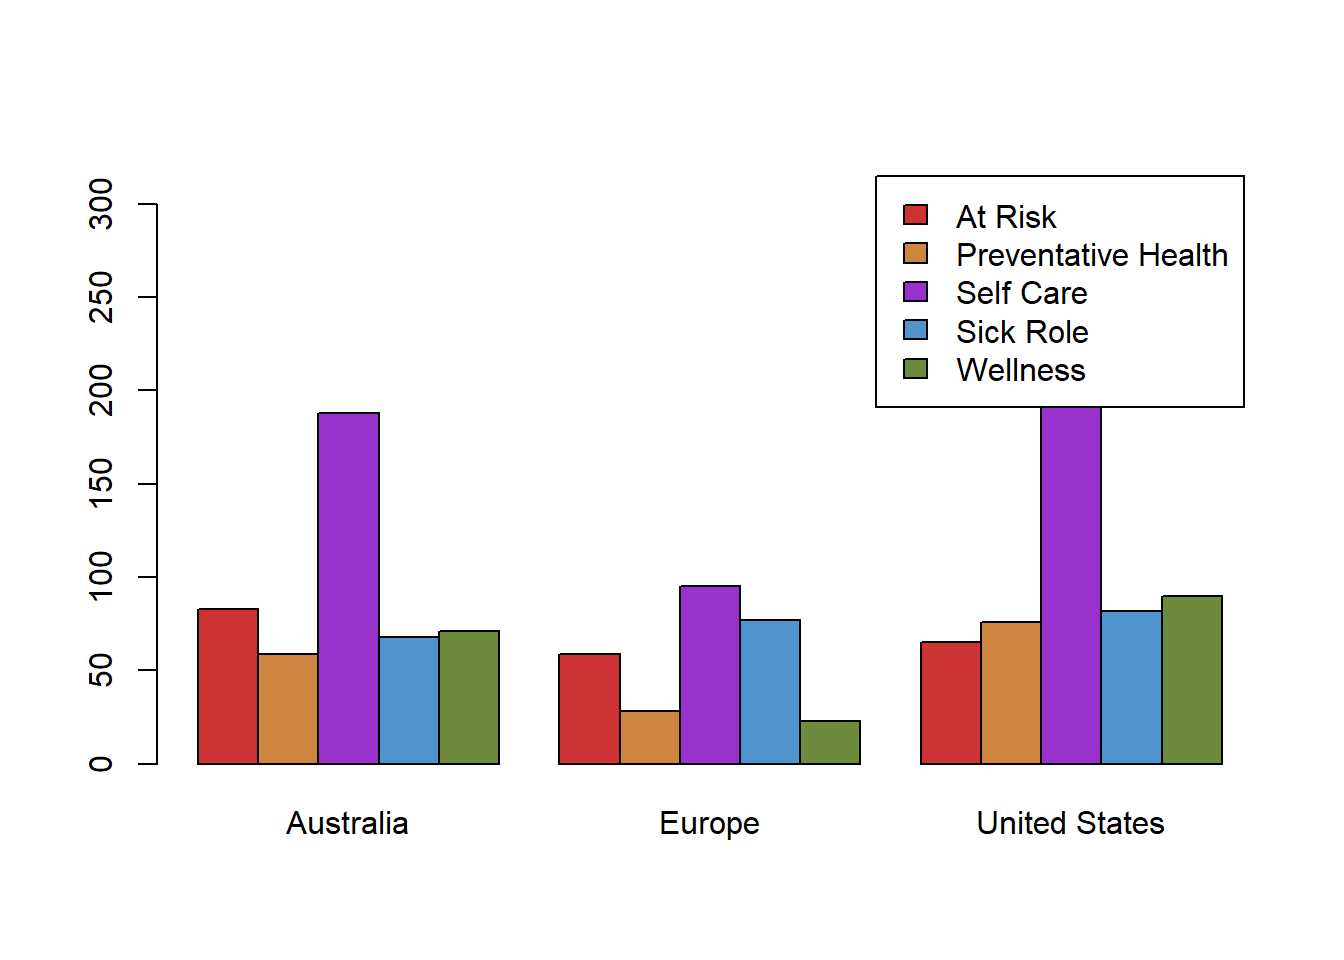
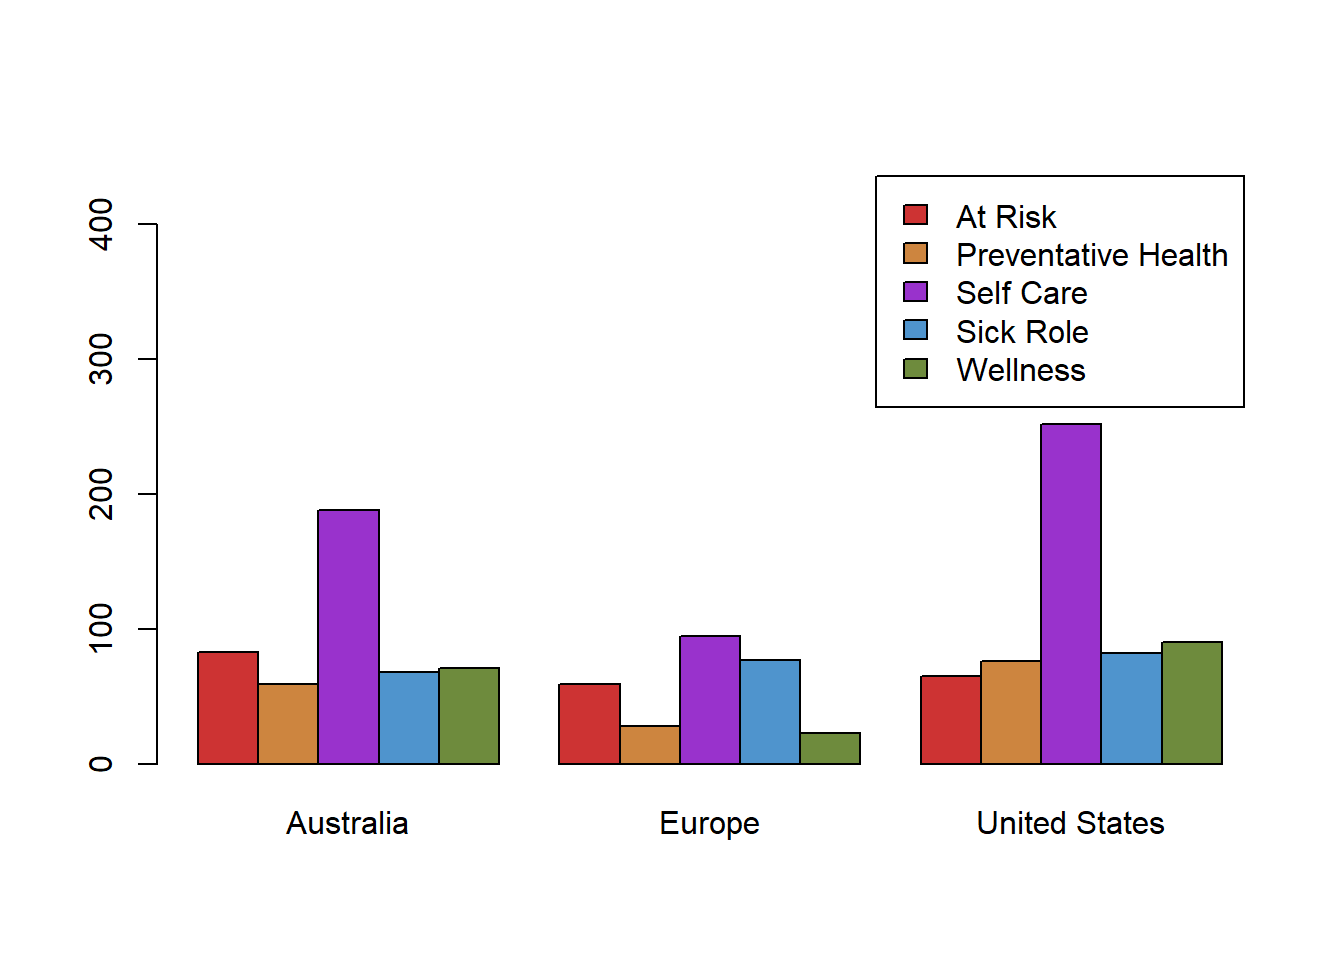
Revised chiropractic_care_raw data

diff --git a/docs/Lesson19.html b/docs/Lesson19.html
@@ -468,6 +468,7 @@ Note that the number of degrees of freedom does not depend on the number of subj
 
 -->
 <p><br></p>
+<p><img src = "Images/StepsAll.png"></p>
 <div id="case-study-chiropractic-care" class="section level3">
 <h3>Case Study: Chiropractic Care</h3>
 <div style="float:right;padding:10px;">
@@ -494,26 +495,15 @@ H_a\colon &amp; \text{The location and the motivation for seeking treatment are 
 H_0\colon &amp; \text{The row variable and the column variable are independent} \\
 H_a\colon &amp; \text{The row variable and the column variable are not independent} \\
 \end{array}
-\]</span> But when there’s a context, please make sure you write your hypotheses in terms of the context.</p>
+\]</span> When writing these in the context of a given situation, replace “row variable” and “column variable” by a more descriptive reference.</p>
+<p>We will use the level of significance <span class="math inline">\(\alpha = 0.05\)</span>.</p>
+<p><br></p>
 <p><img src = "Images/Step2.png"></p>
 <p>The researchers reported on their data collection procedures with the following statement. “Using an international convenience sample of Sacro-Occipital Technique (SOT) practitioners, 1316 consecutive patients attending 27 different chiropractic clinics in the USA, Europe and Australia completed a one-page survey on intake to assess reason for seeking care. A forced choice response was obtained characterizing the patient’s reason for seeking chiropractic care.”</p>
 <p><br/></p>
 <p><img src = "Images/Step3.png"></p>
-<p>The data from the study are given in the file <a href="./data/chiropractic_care_raw.xlsx">chiropractic_care_raw.xlsx</a>. Each row represents the responses of one person. There were a total of 1316 participants in this study.</p>
-<p>Here is a brief excerpt of the data:</p>
-<pre><code>## -- Attaching packages --------------------------------------- tidyverse 1.3.1 --</code></pre>
-<pre><code>## v ggplot2 3.3.5     v purrr   0.3.4
-## v tibble  3.1.6     v dplyr   1.0.7
-## v tidyr   1.1.4     v stringr 1.4.0
-## v readr   2.1.1     v forcats 0.5.1</code></pre>
-<pre><code>## -- Conflicts ------------------------------------------ tidyverse_conflicts() --
-## x dplyr::filter() masks stats::filter()
-## x dplyr::lag()    masks stats::lag()</code></pre>
-<pre><code>## 
-## Attaching package: &#39;kableExtra&#39;</code></pre>
-<pre><code>## The following object is masked from &#39;package:dplyr&#39;:
-## 
-##     group_rows</code></pre>
+<p>The data from the study are given in the file <a href="./data/chiropractic_care_raw.xlsx">chiropractic_care_raw.xlsx</a>. (Review of <a href="RHelp.html#reading-in-the-data">reading in data</a>.) Each row represents the responses of one person.</p>
+Here is a brief excerpt of the data:
 <table class="table" style="width: auto !important; margin-left: auto; margin-right: auto;">
 <thead>
 <tr>
@@ -667,17 +657,15 @@ R Instructions
 <p>First, read in the data from the file <a href="./data/chiropractic_care_raw.xlsx">chiropractic_care_raw.xlsx</a>. (Review of <a href="RHelp.html#reading-in-the-data">reading in data</a>.)</p>
 <p>You can use the <code>head()</code> function to look at the first few rows of the data.</p>
 <pre class="r"><code>head(chiropractic_care_raw)</code></pre>
-<pre><code># A tibble: 6 x 2
-  location  motivation         
-  &lt;chr&gt;     &lt;chr&gt;              
-1 Australia Self Care          
-2 Australia At Risk            
+<pre><code>   location          motivation
+1 Australia           Self Care
+2 Australia             At Risk
 3 Australia Preventative Health
-4 Australia Self Care          
-5 Australia Sick Role          
-6 Australia Self Care          </code></pre>
+4 Australia           Self Care
+5 Australia           Sick Role
+6 Australia           Self Care</code></pre>
 <p>It is hard to visualize these data. We summarize them into a table of counts, which can be called a <em>contingency table</em>. <!--<cite>Blum08</cite>--></p>
-<p>After reading in the data, we can organize it into a contingency table.</p>
+<p>After reading in the data, we can organize it into a contingency table. The values in a contingency table represent the counts of the reasons individuals from each location sought chiropractic care.</p>
 <pre class="r"><code>contingency_table &lt;- table(chiropractic_care_raw)
 contingency_table</code></pre>
 <pre><code>##                motivation
@@ -747,19 +735,19 @@ contingency_table</code></pre>
 <p><img src="Lesson19_files/figure-html/unnamed-chunk-9-1.png" width="672" /></p>
 <p>Either plot can be used. They present identical information in different ways. You will probably prefer one of these plots over the other, so use the one you feel best describes the data.</p>
 <p>In this case, it makes sense to group the reasons people seek chiropractic care together for each country. The second boxplot seems to be more effective as presenting the information in this case.</p>
-<p>Notice that the legend covers the top of the bars in this plot. If we increase the length of the y-axis to 325 (instead of the default value), the legend no longer covers the bars. This is accomplished with the argument <code>ylim = c(0, 325)</code>, which sets the limits of the y-axis to go from 0 to 325. We can also color the plot by providing enough colors for each of the legend entries. We will use the first plot, which has five legend entries. So, we use the command: <code>col = c("brown3", "tan3", "darkorchid", "steelblue3", "darkolivegreen4")</code>.</p>
+<p>Notice that the legend covers part of the bars in this plot. If we increase the length of the y-axis to 450 (instead of the default value), the legend no longer covers the bars. This is accomplished with the argument <code>ylim = c(0, 450)</code>, which sets the limits of the y-axis to go from 0 to 450. We can also color the plot by providing enough colors for each of the legend entries. We will use the first plot, which has five legend entries. So, we use the command: <code>col = c("brown3", "tan3", "darkorchid", "steelblue3", "darkolivegreen4")</code>.</p>
 <pre class="r"><code>barplot(t(contingency_table), beside = TRUE, legend = TRUE,
-        ylim = c(0, 325),  # extend the y-axis from 0 to 325
+        ylim = c(0, 450),  # extend the y-axis from 0 to 450
         col = c(&quot;brown3&quot;, &quot;tan3&quot;, &quot;darkorchid&quot;, &quot;steelblue3&quot;, &quot;darkolivegreen4&quot;))</code></pre>
 <p><img src="Lesson19_files/figure-html/unnamed-chunk-10-1.png" width="672" /></p>
 <p><br/></p>
 </div>
 <p><br> <br></p>
-<p>The predominant motivation that people choose to seek chiropractic care in any region is for <em>Self Care</em>. The second-most common reason differs across the three regions. For Australia, it is <em>Wellness</em>. For Europe, it is <em>At Risk</em>, and for the United States, it is <em>Sick Role</em>.</p>
+<p>The predominant motivation that people choose to seek chiropractic care in any region is for <em>Self Care</em>. The second-most common reason differs across the three regions. For Australia, it is <em>At Risk</em>. For Europe, it is <em>Sick Role</em>, and for the United States, it is <em>Wellness</em>.</p>
 <p><br/></p>
 <p><img src = "Images/Step4.png"></p>
 <p>Our objective is to determine if the reasons people seek chiropractic care is proportionally the same for each of the three locations. In other words, we want to know if people’s motivation for seeking chiropractic care is independent of their location.</p>
-<p>Before drawing a conclusion, it is important to conduct the chi-squared test of independence. The <span class="math inline">\(P\)</span>-value from this test will help us know if there are statistically significant differences in the ratios across the groups. If we fail to reject the null hypothesis, then <em>motivation</em> and <em>location</em> are independent (i.e., not related). So any patterns we are seeing in the bar plot can be attributed to random chance. However, if we reject the null hypothesis then we can claim that <em>motivation</em> and <em>location</em> are <strong>not independent</strong> (meaning the proportions of the reasons people seek care is different in the three locations). We can then draw our final conclusions regarding the patterns observed in the side-by-side bar plots.</p>
+<p>The barcharts for the three regions do not look the same. This suggests that the motivation to seek chiropractic care is not independent of the region. However, before drawing a conclusion it is important to conduct the chi-squared test of independence. The <span class="math inline">\(P\)</span>-value from this test will help us know if there are statistically significant differences in the ratios across the groups. If we fail to reject the null hypothesis, then <em>motivation</em> and <em>location</em> are independent (i.e., not related). So any patterns we are seeing in the bar plot can be attributed to random chance. However, if we reject the null hypothesis then we can claim that <em>motivation</em> and <em>location</em> are <strong>not independent</strong> (meaning the proportions of the reasons people seek care is different in the three locations). We can then draw our final conclusions regarding the patterns observed in the side-by-side bar plots.</p>
 </div>
 <div id="r-instructions-for-performing-a-chi-squared-test-of-independence" class="section level3">
 <h3>R Instructions for Performing a Chi-squared Test of Independence</h3>
@@ -775,14 +763,15 @@ chisq_results</code></pre>
 
 data:  contingency_table
 X-squared = 49.743, df = 8, p-value = 4.58e-08</code></pre>
-<p>The “X-squared” value of 49.743 is the test statistic of the test. Technically, it should be typeset as <span class="math inline">\(\chi^2 = 49.743\)</span>. The text “X-squared” is used to represent the symbol (<span class="math inline">\(\chi^2\)</span>), which is the Greek letter chi (<span class="math inline">\(\chi\)</span>) squared. The degrees of freedom (<strong>df</strong>) and the <span class="math inline">\(P\)</span>-value are also given in this output. The degrees of freedom are df = <code>chisq_results$parameter</code> and the <span class="math inline">\(P\)</span>-value is <code>chisq_results$p.value %&gt;% round(3)</code></p>
+<p>The “X-squared” value of 49.743 is the test statistic of the test. Technically, it should be typeset as <span class="math inline">\(\chi^2 = 49.743\)</span>. The text “X-squared” is used to represent the symbol (<span class="math inline">\(\chi^2\)</span>), which is the Greek letter chi (<span class="math inline">\(\chi\)</span>) squared. The degrees of freedom (<strong>df</strong>) and the <span class="math inline">\(P\)</span>-value are also given in this output. <!--
+The value of the degrees of freedom is df = 8 and the $P$-value is $4.58 \times 10^{-8} = 0.000~000~045~8$.
+--></p>
 </div>
 <p><br/></p>
 <p>Recall that the hypotheses of this test were:</p>
 <p><span class="math inline">\(~~~~~H_0\colon\)</span> Location and the motivation to visit a chiropractor are independent</p>
 <p><span class="math inline">\(~~~~~H_a\colon\)</span> Location and the motivation to visit a chiropractor are not independent</p>
-<p>Let <span class="math inline">\(\alpha = 0.05\)</span>.</p>
-<p>The test statistic is: <span class="math inline">\(\chi^2 = 49.743\)</span>, with <span class="math inline">\(df = 8\)</span> and <span class="math inline">\(P\)</span>-value = 4.58e-08 = 0.0000000458. This allows us to reject the null hypothesis and conclude that location and the motivation to visit a chiropractor are not independent (the motivation is associated with the location).</p>
+<p>The test statistic is: <span class="math inline">\(\chi^2 = 49.743\)</span>, with <span class="math inline">\(df = 8\)</span> and <span class="math inline">\(P\)</span>-value <span class="math inline">\(= 4.58e-08 = 0.000~000~045~8 &lt; 0.05 = \alpha\)</span>. We reject the null hypothesis and conclude that location and the motivation to visit a chiropractor are not independent. This means that the motivation is differs across the locations.</p>
 </div>
 <div id="requirements" class="section level3">
 <h3>Requirements</h3>
